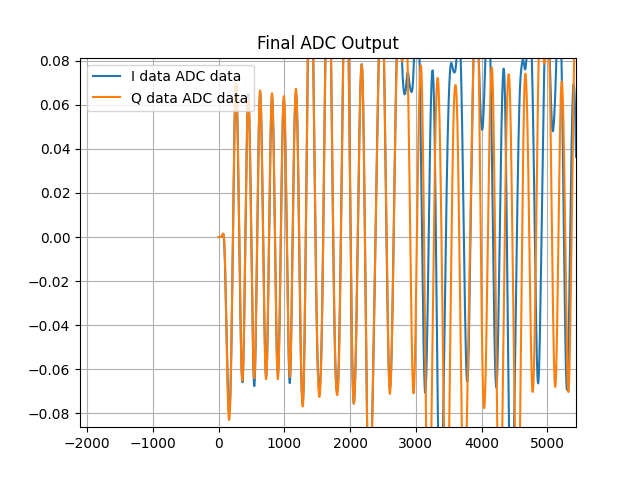
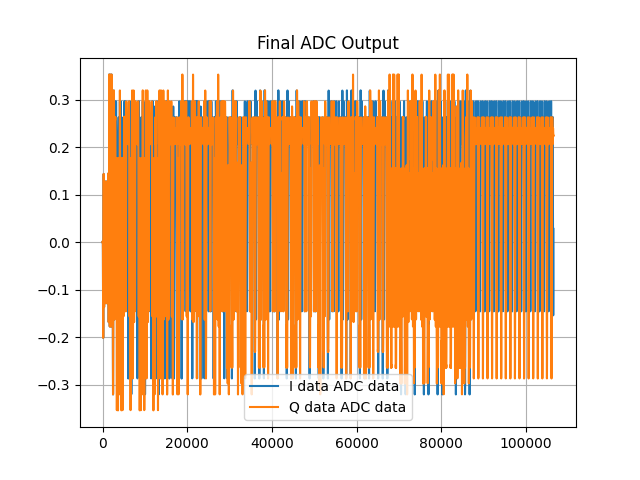
Demodulation Completed

diff --git a/QPSK_sim.py b/QPSK_sim.py
@@ -66,6 +66,21 @@ KEY = 0
 
 FIFO = [SLOT_DATA]
 
+def plot_eye(signal, sps, num_traces=2):
+    plt.cla()
+    trace_len = sps *2
+    for i in range(num_traces):
+        start = i * trace_len
+        if start + trace_len < len(signal):
+            plt.plot(signal[start:start+trace_len], color='blue', alpha=0.35)
+    plt.title("Eye Diagram (I-component)")
+    plt.xlabel("Sample")
+    plt.ylabel("Amplitude")
+    plt.grid(True)
+    plt.show(block = False)
+
+    input()
+
 
 
 
@@ -168,7 +183,8 @@ def Grayde_Map(Sample):
 
 
 preamble = [1,1,-1,1,1,-1,1,1,-1,1,-1,-1,1,1,-1,1,1]
-Con_sine = [-1,1,-1,1,-1,1,-1,1,-1,1,-1,1,-1]
+
+Con_sine = [-1,1,-1,1,-1,1,-1,1,-1,1,-1,1,-1,1,-1]
 
 peek = None
 
@@ -179,13 +195,20 @@ def Add_Preamble(Data):
 
 
 def Remove_Preamble(Sample):
-    global peek
+    global peek,plt
     Samples = []
     for k in Sample:
         Samples.append(-1 if k < 0 else 1)
 
     corr = correlate(np.array(Samples), np.array(preamble), mode='valid')
     if peek == None:
+        plt.cla()
+        plt.plot(corr,label = 'Correlation')
+        plt.legend()
+        plt.title('Correlation')
+        plt.grid()
+        plt.show(block = False)
+        input()
         peek = np.argmax(corr)
     Data = Samples[peek+len(preamble)::]
     return Data
@@ -286,8 +309,8 @@ def Modulate (Data):
     s = 1
 
     for j in range(0,len(I),3):
-      I[j+s] = _I[i]
-      Q[j+s] = _Q[i]
+      I[j], I[j+1], I[j+2] = _I[i], _I[i], _I[i]
+      Q[j], Q[j+1],Q[j+2] = _Q[i], _Q[i], _Q[i]
       i+=1
     i=0
  
@@ -308,9 +331,10 @@ def Modulate (Data):
 
 
 
-    up_I = np.convolve(I, h, mode='same')
-    up_Q = np.convolve(Q, h, mode='same')
+    up_I =  np.convolve(h, I, mode = 'same')
+    up_Q =  np.convolve(h, Q, mode = 'same')
 
+    Test_S = [up_I,up_Q]
 
     plt.cla()
     plt.plot(up_I,label = 'I data')
@@ -350,7 +374,7 @@ def Modulate (Data):
     DAC_I = lfilter(lpf, 1.0, ip_I)
     DAC_Q = lfilter(lpf, 1.0, ip_Q)
 
-    Test_S = [DAC_I, DAC_Q]
+    
 
 
     plt.cla()
@@ -364,7 +388,7 @@ def Modulate (Data):
 
     input()
     plt.savefig('DAC_IN')
-
+    plot_eye(DAC_I,sps*30,num_traces=1000)
 
     # Modulation
 
@@ -458,7 +482,8 @@ def Demodulate (ADC_IN):
 
     
     plt.cla()
-    plt.plot(Sig_I,label = 'ADC data')
+    plt.plot(Sig_I,label = 'ADC I data')
+    plt.plot(Sig_Q,label = 'ADC Q data')
     plt.legend()
     plt.title('ADC IQ sepration')
     plt.grid()
@@ -478,8 +503,6 @@ def Demodulate (ADC_IN):
     ADC_dn_Q = lfilter(lpf, 1.0, ADC_dn_Q)
 
 
-    print(max(ADC_dn_I))
-
     plt.cla()
     plt.plot(ADC_dn_I,label = 'I data ADC data')
     plt.plot(ADC_dn_Q,label = 'Q data ADC data')
@@ -490,7 +513,6 @@ def Demodulate (ADC_IN):
     input()
     plt.savefig('ADC_OUT')
 
-    ADC_dn_I , ADC_dn_I = Test_S[0], Test_S[1]
 
 
     dc_I = upfirdn([1],ADC_dn_I,down = 30)
@@ -506,22 +528,24 @@ def Demodulate (ADC_IN):
 
 
 
+  #  rrc_I,rrc_Q = Test_S[0], Test_S[1]
 
 
+    rrc_I = np.convolve(h, dc_I, mode = 'same')
+    rrc_Q = np.convolve(h, dc_Q, mode = 'same')
 
-    rrc_I = np.convolve(dc_I,h, mode='same')
-    rrc_Q = np.convolve(dc_Q,h, mode='same')
-
-    rrc_I = dc_I
-    rrc_Q = dc_Q
 
     plt.cla()
     plt.plot(rrc_I,label = 'I')
+    plt.plot(rrc_Q,label = 'Q')
     plt.legend()
     plt.title('RX RRC Out')
     plt.grid()
     plt.show(block = False)
     input()
+
+    plot_eye(rrc_I, sps, num_traces=len(rrc_I))
+    plot_eye(rrc_Q, sps, num_traces=len(rrc_Q))
 
 
 
@@ -544,21 +568,21 @@ def Demodulate (ADC_IN):
     plt.show(block = False)
     input()
 
-    dn_DATA = (np.array(dn_I)) + (1j * np.array(dn_Q[:len(dn_I)]))
+    dn_DATA = (np.array(dn_I)) + (1j * np.array(dn_Q))
 
-    # plt.close()
-    # plt.figure(figsize=(6, 6))
-    # plt.scatter(dn_DATA.real, dn_DATA.imag, s=2, color='blue', alpha=0.6)
-    # plt.axhline(0, color='black', lw=0.5)
-    # plt.axvline(0, color='black', lw=0.5)
-    # plt.grid(True, linestyle='--', alpha=0.5)
-    # plt.title('Constellation Diagram')
-    # plt.xlabel("In-phase (I)")
-    # plt.ylabel("Quadrature (Q)")
-    # plt.axis('equal')
-    # plt.xlim([-1.5, 1.5])
-    # plt.ylim([-1.5, 1.5])
-    # plt.show()
+    plt.close()
+    plt.figure(figsize=(6, 6))
+    plt.scatter(dn_DATA.real, dn_DATA.imag, s=2, color='blue', alpha=0.6)
+    plt.axhline(0, color='black', lw=0.5)
+    plt.axvline(0, color='black', lw=0.5)
+    plt.grid(True, linestyle='--', alpha=0.5)
+    plt.title('Constellation Diagram')
+    plt.xlabel("In-phase (I)")
+    plt.ylabel("Quadrature (Q)")
+    plt.axis('equal')
+    plt.xlim([-1.5, 1.5])
+    plt.ylim([-1.5, 1.5])
+    plt.show()
 
     print(len(preamble)+len(Con_sine))
 
@@ -568,8 +592,8 @@ def Demodulate (ADC_IN):
     print('After: ',len(dn_I),len(dn_Q))
 
     plt.cla()
-    plt.plot(dn_I,label = 'I')
-    plt.plot(dn_Q,label = 'Q')
+    plt.stem(dn_I,label = 'I')
+    # plt.plot(dn_Q,label = 'Q')
     plt.legend()
     plt.title('Removed PreAmble')
     plt.grid()
@@ -602,14 +626,14 @@ for i in FIFO:
 
     Noise = np.random.randint(0,10,size= (len(TX)))
     Noise = Noise * (TX.max() / 100)
-    TX = TX + Noise
-    plt.cla()
-    plt.plot(TX,label = 'TX')
-    plt.legend()
-    plt.title('TX + Noise')
-    plt.grid()
-    plt.show(block = False)
-    input()
+    # TX = TX + Noise
+    # plt.cla()
+    # plt.plot(TX,label = 'TX')
+    # plt.legend()
+    # plt.title('TX + Noise')
+    # plt.grid()
+    # plt.show(block = False)
+    # input()
 
 
     Demodulate(TX)

diff --git a/test.py b/test.py
@@ -1,51 +1,112 @@
 import numpy as np
 import matplotlib.pyplot as plt
+from scipy.signal import upfirdn, correlate
+
+# RRC filter design
+def rrc_filter(beta, sps, span):
+    N = span * sps
+    t = np.arange(-N/2, N/2 + 1) / sps
+    eps = 1e-8
+    h = np.zeros_like(t)
+    for i in range(len(t)):
+        if abs(t[i]) < eps:
+            h[i] = 1.0 - beta + 4 * beta / np.pi
+        elif abs(abs(t[i]) - 1/(4*beta)) < eps:
+            h[i] = (beta / np.sqrt(2)) * (
+                (1 + 2/np.pi) * np.sin(np.pi/(4*beta)) +
+                (1 - 2/np.pi) * np.cos(np.pi/(4*beta))
+            )
+        else:
+            h[i] = (np.sin(np.pi * t[i] * (1 - beta)) +
+                    4 * beta * t[i] * np.cos(np.pi * t[i] * (1 + beta))) / \
+                   (np.pi * t[i] * (1 - (4 * beta * t[i])**2))
+    return h
 
 # Parameters
-N = 1000  # Number of symbols
-sps = 8   # Samples per symbol
-fc = 2e3  # Carrier frequency
-fs = 16e3 # Sampling rate
-t = np.arange(0, N*sps)/fs
-
-# Bit generation
-bits = np.random.randint(0, 2, N*2)
-symbols = bits.reshape(-1, 2)
+sps = 3
+beta = 0.35
+span = 6
+fc = 0.1  # Normalized carrier frequency (relative to Fs)
+num_data = 500
+rolloff = beta
 
 # QPSK Mapping
-mapping = {
-    (0,0): (1, 1),
-    (0,1): (-1, 1),
-    (1,1): (-1, -1),
-    (1,0): (1, -1)
-}
-I, Q = zip(*[mapping[tuple(b)] for b in symbols])
-I = np.repeat(I, sps)
-Q = np.repeat(Q, sps)
+def bits_to_symbols(bits):
+    mapping = {
+        (0,0): 1+1j,
+        (0,1): -1+1j,
+        (1,1): -1-1j,
+        (1,0): 1-1j
+    }
+    bit_pairs = bits.reshape(-1, 2)
+    return np.array([mapping[tuple(b)] for b in bit_pairs])
 
-# IQ modulation
-carrier_I = np.cos(2*np.pi*fc*t)
-carrier_Q = np.sin(2*np.pi*fc*t)
-tx_signal = I * carrier_I - Q * carrier_Q
+# Generate preamble and data
+preamble_bits = np.tile([0, 0, 0, 1, 1, 1, 1, 0], 4)
+preamble = bits_to_symbols(preamble_bits)
+data_bits = np.random.randint(0, 2, num_data * 2)
+data = bits_to_symbols(data_bits)
+symbols = np.concatenate([preamble, data])
 
-# IQ demodulation (coherent)
-rx_I = tx_signal * carrier_I * 2
-rx_Q = -tx_signal * carrier_Q * 2
+# RRC filter
+rrc = rrc_filter(beta, sps, span)
 
-# Low-pass filter (simple moving average here)
-def lpf(signal, span=16):
-    return np.convolve(signal, np.ones(span)/span, mode='same')
+# Transmit signal
+tx = upfirdn(rrc, symbols, up=sps)
 
-I_baseband = lpf(rx_I)
-Q_baseband = lpf(rx_Q)
+# Time vector
+t = np.arange(len(tx))
 
-# Downsample (symbol decisions)
-I_sym = I_baseband[sps//2::sps]
-Q_sym = Q_baseband[sps//2::sps]
+# Carrier modulation
+carrier = np.exp(1j * 2 * np.pi * fc * t)
+modulated = tx * carrier
 
+# Add sine tone interference (optional)
+sine = 0.5 * np.exp(1j * 2 * np.pi * 0.02 * t)
+tx_signal = modulated + sine
+
+# Receiver: Mix down (demodulate)
+rx = tx_signal * np.exp(-1j * 2 * np.pi * fc * t)
+
+# Matched RRC filter
+rx_filtered = upfirdn(rrc, rx, up=1, down=1)
+
+# Symbol synchronization via preamble cross-correlation
+rx_energy = rx_filtered / np.max(np.abs(rx_filtered))
+preamble_upsampled = upfirdn(rrc, preamble, up=sps)
+correlation = correlate(rx_energy, preamble_upsampled, mode='valid')
+start_idx = np.argmax(np.abs(correlation))
+aligned = rx_filtered[start_idx:]
+
+# Downsample after alignment
+samples = aligned[sps*span//2::sps]
+
+# Phase correction using preamble
+rx_preamble = samples[:len(preamble)]
+angle_offset = np.angle(np.sum(rx_preamble * np.conj(preamble)))
+samples_corrected = samples * np.exp(-1j * angle_offset)
+
+# Data after preamble
+rx_data = samples_corrected[len(preamble)-1:]
+
+# Constellation Plot
 plt.figure()
-plt.scatter(I_sym, Q_sym)
-plt.title("QPSK Constellation After Demodulation")
+plt.scatter(np.real(rx_data), np.imag(rx_data), color='blue', alpha=0.6)
+plt.title("QPSK Constellation After Time & Phase Correction")
 plt.grid(True)
 plt.axis('equal')
 plt.show()
+
+# Eye Diagram (I-channel)
+def plot_eye(signal, sps, num_traces=100):
+    trace_len = 2 * sps
+    for i in range(num_traces):
+        start = i * trace_len
+        if start + trace_len < len(signal):
+            plt.plot(np.real(signal[start:start+trace_len]), color='blue', alpha=0.3)
+    plt.title("Eye Diagram (I-component)")
+    plt.xlabel("Sample")
+    plt.grid(True)
+    plt.show()
+
+plot_eye(np.real(aligned), sps)
